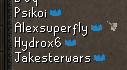
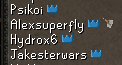
Break up config into more options

diff --git a/src/main/java/dev/dkvl/womutils/WomUtilsPlugin.java b/src/main/java/dev/dkvl/womutils/WomUtilsPlugin.java
@@ -87,7 +87,7 @@ public class WomUtilsPlugin extends Plugin
 
 	private static final ImmutableList<String> AFTER_OPTIONS = ImmutableList.of("Message", "Add ignore", "Remove friend", "Delete", KICK_OPTION);
 
-	private static final ImmutableList<WidgetMenuOption> WIDGET_MENU_OPTIONS =
+	private static final ImmutableList<WidgetMenuOption> WIDGET_IMPORT_MENU_OPTIONS =
 		new ImmutableList.Builder<WidgetMenuOption>()
 		.add(new WidgetMenuOption(IMPORT_MEMBERS,
 			MENU_TARGET, WidgetInfo.FIXED_VIEWPORT_FRIENDS_CHAT_TAB))
@@ -95,13 +95,17 @@ public class WomUtilsPlugin extends Plugin
 			MENU_TARGET, WidgetInfo.RESIZABLE_VIEWPORT_FRIENDS_CHAT_TAB))
 		.add(new WidgetMenuOption(IMPORT_MEMBERS,
 			MENU_TARGET, WidgetInfo.RESIZABLE_VIEWPORT_BOTTOM_LINE_FRIEND_CHAT_ICON))
-		.add(new WidgetMenuOption(BROWSE_GROUP,
-			MENU_TARGET, WidgetInfo.FIXED_VIEWPORT_FRIENDS_CHAT_TAB))
-		.add(new WidgetMenuOption(BROWSE_GROUP,
-			MENU_TARGET, WidgetInfo.RESIZABLE_VIEWPORT_FRIENDS_CHAT_TAB))
-		.add(new WidgetMenuOption(BROWSE_GROUP,
-			MENU_TARGET, WidgetInfo.RESIZABLE_VIEWPORT_BOTTOM_LINE_FRIEND_CHAT_ICON))
 		.build();
+
+	private static final ImmutableList<WidgetMenuOption> WIDGET_BROWSE_MENU_OPTIONS =
+		new ImmutableList.Builder<WidgetMenuOption>()
+			.add(new WidgetMenuOption(BROWSE_GROUP,
+				MENU_TARGET, WidgetInfo.FIXED_VIEWPORT_FRIENDS_CHAT_TAB))
+			.add(new WidgetMenuOption(BROWSE_GROUP,
+				MENU_TARGET, WidgetInfo.RESIZABLE_VIEWPORT_FRIENDS_CHAT_TAB))
+			.add(new WidgetMenuOption(BROWSE_GROUP,
+				MENU_TARGET, WidgetInfo.RESIZABLE_VIEWPORT_BOTTOM_LINE_FRIEND_CHAT_ICON))
+			.build();
 	// RESIZABLE_VIEWPORT_BOTTOM_LINE_FRIEND_CHAT_ICON is actually wrong and will act as a placeholder for now.
 	// I think the one we want is 164.38, but it needs to be added to core to use.
 
@@ -165,7 +169,6 @@ public class WomUtilsPlugin extends Plugin
 		try
 		{
 			loadFile();
-
 		}
 		catch (IOException e)
 		{
@@ -175,9 +178,22 @@ public class WomUtilsPlugin extends Plugin
 		iconHandler.loadIcons();
 		womClient.importGroupMembersTo(groupMembers);
 
-		if (config.menuOptions())
+		if (client != null)
 		{
-			addCustomOptions();
+			if (config.playerLookupOption())
+			{
+				menuManager.addPlayerMenuItem(LOOKUP);
+			}
+
+			if (config.importGroup())
+			{
+				addGroupMenuOptions(WIDGET_IMPORT_MENU_OPTIONS);
+			}
+
+			if (config.browseGroup())
+			{
+				addGroupMenuOptions(WIDGET_BROWSE_MENU_OPTIONS);
+			}
 		}
 
 		if (client.getGameState() == GameState.LOGGED_IN)
@@ -205,7 +221,12 @@ public class WomUtilsPlugin extends Plugin
 	@Override
 	protected void shutDown() throws Exception
 	{
-		removeCustomOptions();
+
+		removeGroupMenuOptions();
+		if (client != null)
+		{
+			menuManager.removePlayerMenuItem(LOOKUP);
+		}
 
 		if (client.getGameState() == GameState.LOGGED_IN)
 		{
@@ -335,27 +356,37 @@ public class WomUtilsPlugin extends Plugin
 	@Subscribe
 	public void onMenuEntryAdded(MenuEntryAdded event)
 	{
-		if (!config.menuOptions() || !AFTER_OPTIONS.contains(event.getOption()))
+		if ((!config.addRemoveMember() && !config.menuLookupOption()))
 		{
 			return;
 		}
+
 		int groupId = WidgetInfo.TO_GROUP(event.getActionParam1());
 		String option = event.getOption();
 
-		boolean addModifyMember = config.groupId() > 0
+		if (!AFTER_OPTIONS.contains(option)
+			// prevent duplicate menu options in friends list
+			|| (option.equals("Delete") && groupId != WidgetInfo.IGNORE_LIST.getGroupId()))
+		{
+			return;
+		}
+
+		boolean addModifyMember = config.addRemoveMember()
+			&& config.groupId() > 0
 			&& !Strings.isNullOrEmpty(config.verificationCode())
 			&& (groupId == WidgetInfo.FRIENDS_CHAT.getGroupId()
 				|| groupId == WidgetInfo.FRIENDS_LIST.getGroupId());
 
-		boolean addLookup = groupId == WidgetInfo.FRIENDS_LIST.getGroupId()
+		boolean addMenuLookup = config.menuLookupOption()
+			&& (groupId == WidgetInfo.FRIENDS_LIST.getGroupId()
 			|| groupId == WidgetInfo.FRIENDS_CHAT.getGroupId()
 			// prevent from adding for Kick option (interferes with the raiding party one)
 			|| groupId == WidgetInfo.CHATBOX.getGroupId() && !KICK_OPTION.equals(option)
 			|| groupId == WidgetInfo.RAIDING_PARTY.getGroupId()
 			|| groupId == WidgetInfo.PRIVATE_CHAT_MESSAGE.getGroupId()
-			|| groupId == WidgetInfo.IGNORE_LIST.getGroupId();
+			|| groupId == WidgetInfo.IGNORE_LIST.getGroupId());
 
-		int offset = (addModifyMember ? 1:0) + (addLookup ? 1:0);
+		int offset = (addModifyMember ? 1:0) + (addMenuLookup ? 1:0);
 
 		if (offset == 0)
 		{
@@ -374,7 +405,7 @@ public class WomUtilsPlugin extends Plugin
 			offset--;
 		}
 
-		if (addLookup)
+		if (addMenuLookup)
 		{
 			MenuEntry womLookup = entries[entries.length - offset] = ModifiedMenuEntry.of(event);
 			womLookup.setOption(LOOKUP);
@@ -463,24 +494,36 @@ public class WomUtilsPlugin extends Plugin
 	@Subscribe
 	public void onConfigChanged(ConfigChanged event)
 	{
-		if (!event.getGroup().equals(CONFIG_GROUP))
+		if (!event.getGroup().equals(CONFIG_GROUP) || client == null)
 		{
 			return;
 		}
 
-		if (config.menuOptions() && config.groupId() > 0)
+		menuManager.removePlayerMenuItem(LOOKUP);
+		if (config.playerLookupOption())
 		{
-			addCustomOptions();
-		}
-		else
-		{
-			removeCustomOptions();
+			menuManager.addPlayerMenuItem(LOOKUP);
 		}
 
-		if (event.getKey().equals("showIcons") && client.getGameState() == GameState.LOGGED_IN)
+		removeGroupMenuOptions();
+		if (config.groupId() > 0) {
+			if (config.browseGroup())
+			{
+				addGroupMenuOptions(WIDGET_BROWSE_MENU_OPTIONS);
+			}
+
+			if (config.importGroup())
+			{
+				addGroupMenuOptions(WIDGET_IMPORT_MENU_OPTIONS);
+			}
+		}
+
+		if ((event.getKey().equals("showIcons") || event.getKey().equals("showFlags"))
+			&& client.getGameState() == GameState.LOGGED_IN)
 		{
 			iconHandler.rebuildLists(groupMembers, config.showicons());
 		}
+
 	}
 
 	@Subscribe
@@ -544,22 +587,25 @@ public class WomUtilsPlugin extends Plugin
 		}
 	}
 
-	private void addCustomOptions()
+	private void addGroupMenuOptions(ImmutableList<WidgetMenuOption> menuOptions)
 	{
-		for (WidgetMenuOption option : WIDGET_MENU_OPTIONS)
+		for (WidgetMenuOption option : menuOptions)
 		{
 			menuManager.addManagedCustomMenu(option);
 		}
-		menuManager.addPlayerMenuItem(LOOKUP);
 	}
 
-	private void removeCustomOptions()
+	private void removeGroupMenuOptions()
 	{
-		for (WidgetMenuOption option : WIDGET_MENU_OPTIONS)
+		for (WidgetMenuOption option : WIDGET_BROWSE_MENU_OPTIONS)
 		{
 			menuManager.removeManagedCustomMenu(option);
 		}
-		menuManager.removePlayerMenuItem(LOOKUP);
+
+		for (WidgetMenuOption option : WIDGET_IMPORT_MENU_OPTIONS)
+		{
+			menuManager.removeManagedCustomMenu(option);
+		}
 	}
 
 	private void update(String username)

diff --git a/src/main/java/dev/dkvl/womutils/WomUtilsConfig.java b/src/main/java/dev/dkvl/womutils/WomUtilsConfig.java
@@ -17,6 +17,31 @@ public interface WomUtilsConfig extends Config
 	)
 	String groupConfig = "groupConfig";
 
+	@ConfigSection(
+		name = "Lookup",
+		description = "Lookup menu option configurations",
+		position = 2
+	)
+	String lookupConfig = "lookupConfig";
+
+	@ConfigItem(
+		keyName = "playerLookupOption",
+		name = "Player option",
+		description = "Add WOM Lookup option to players",
+		position = 0,
+		section = lookupConfig
+	)
+	default boolean playerLookupOption() { return true; }
+
+	@ConfigItem(
+		keyName = "menuLookupOption",
+		name = "Menu option",
+		description = "Add WOM Lookup option to menus",
+		position = 1,
+		section = lookupConfig
+	)
+	default boolean menuLookupOption() { return true; }
+
 	@ConfigItem(
 		keyName = "showIcons",
 		name = "Show icons",
@@ -31,7 +56,7 @@ public interface WomUtilsConfig extends Config
 
 	@ConfigItem(
 		keyName= "showFlags",
-		name = "Show Flags",
+		name = "Show flags",
 		description = "Show flags instead of the group icon where possible for your group members, requires icons to be enabled.",
 		position = 1,
 		section = groupConfig
@@ -42,13 +67,37 @@ public interface WomUtilsConfig extends Config
 	}
 
 	@ConfigItem(
-		keyName = "menuOptions",
-		name = "Menu options",
-		description = "Show member and import options in menus",
+		keyName = "importGroup",
+		name = "Import Group option",
+		description = "Add Import WOM Group menu option to the clan chat tab",
 		position = 2,
 		section = groupConfig
 	)
-	default boolean menuOptions()
+	default boolean importGroup()
+	{
+		return true;
+	}
+
+	@ConfigItem(
+		keyName = "browseGroup",
+		name = "Browse Group option",
+		description = "Add Browse WOM Group menu option to th eclan chat tab",
+		position = 3,
+		section = groupConfig
+	)
+	default boolean browseGroup()
+	{
+		return true;
+	}
+
+	@ConfigItem(
+		keyName = "addRemoveMember",
+		name = "Add/Remove Member option",
+		description = "Add options to add & remove players from group, to clan chat and friend list",
+		position = 4,
+		section = groupConfig
+	)
+	default boolean addRemoveMember()
 	{
 		return true;
 	}
@@ -57,7 +106,7 @@ public interface WomUtilsConfig extends Config
 		keyName = "groupId",
 		name = "Group Id",
 		description = "The group id in WOM",
-		position = 3,
+		position = 5,
 		section = groupConfig
 	)
 	default int groupId()
@@ -70,7 +119,7 @@ public interface WomUtilsConfig extends Config
 		name = "Verification code",
 		description = "Verification code for the WOM group",
 		secret = true,
-		position = 4,
+		position = 6,
 		section = groupConfig
 	)
 	default String verificationCode()

diff --git a/README.md b/README.md
@@ -21,12 +21,26 @@ Right click menu options, on the Clan Chat tab, to import group members and go t
 Adds an icon next to the names of people, in the clan chat, friends list and ignore list, who are in the configured group.
 
 ![Group member indicator](img/group_member_indicator.png)
+![Group member indicator with flags](img/show_flags.png)
+
+#### WOM Lookup
+Adds a WOM lookup option that lets you look up a player's stats. This only works for people who are tracked on Wise Old Man.
+
+![WOM Lookup](img/wom_lookup.png)
 
 ### Configuration
+##### Group
 - Show icons: Adds the group icon next to players names who are in the group.
-- Menu options: Adds the Add, Remove, Browse and Import options to the right click menus of players and clan chat tab.
+- Show flags: Changes the default blue crown to a country flag.
+- Import Group option: Adds the Import Group option to the clan chat tab.
+- Browse Group option: Adds the Browse Group option to the clan chat tab.
+- Add/Remove Member option: Adds Add and Remove member options to the player menu in clan chat and friends list.
 - Group id: This is the group id that can be found on the group page on WOM. [Example.](https://wiseoldman.net/groups/139)
 - Verification code: This is the verification code you get when you create the group, which is used to edit the group.
+
+##### Lookup
+- Player option: Adds the WOM Lookup option when right clicking a player.
+- Menu option: Adds the WOM Lookup option in the right click menu.
 
 ![Group configurations](img/configuration.png)
 
